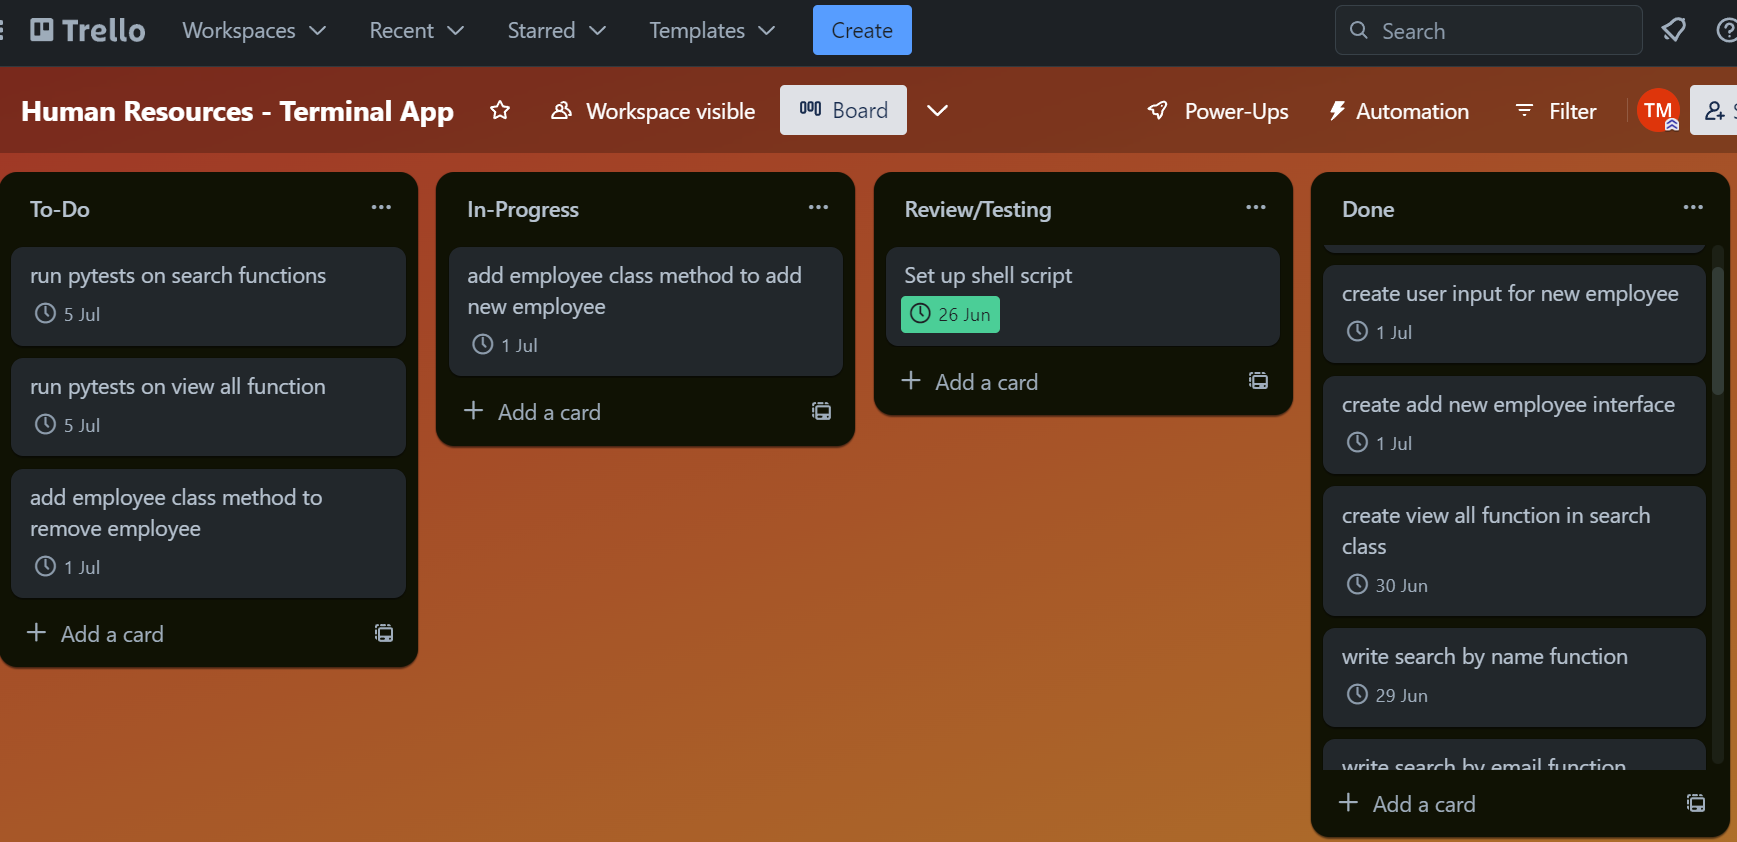
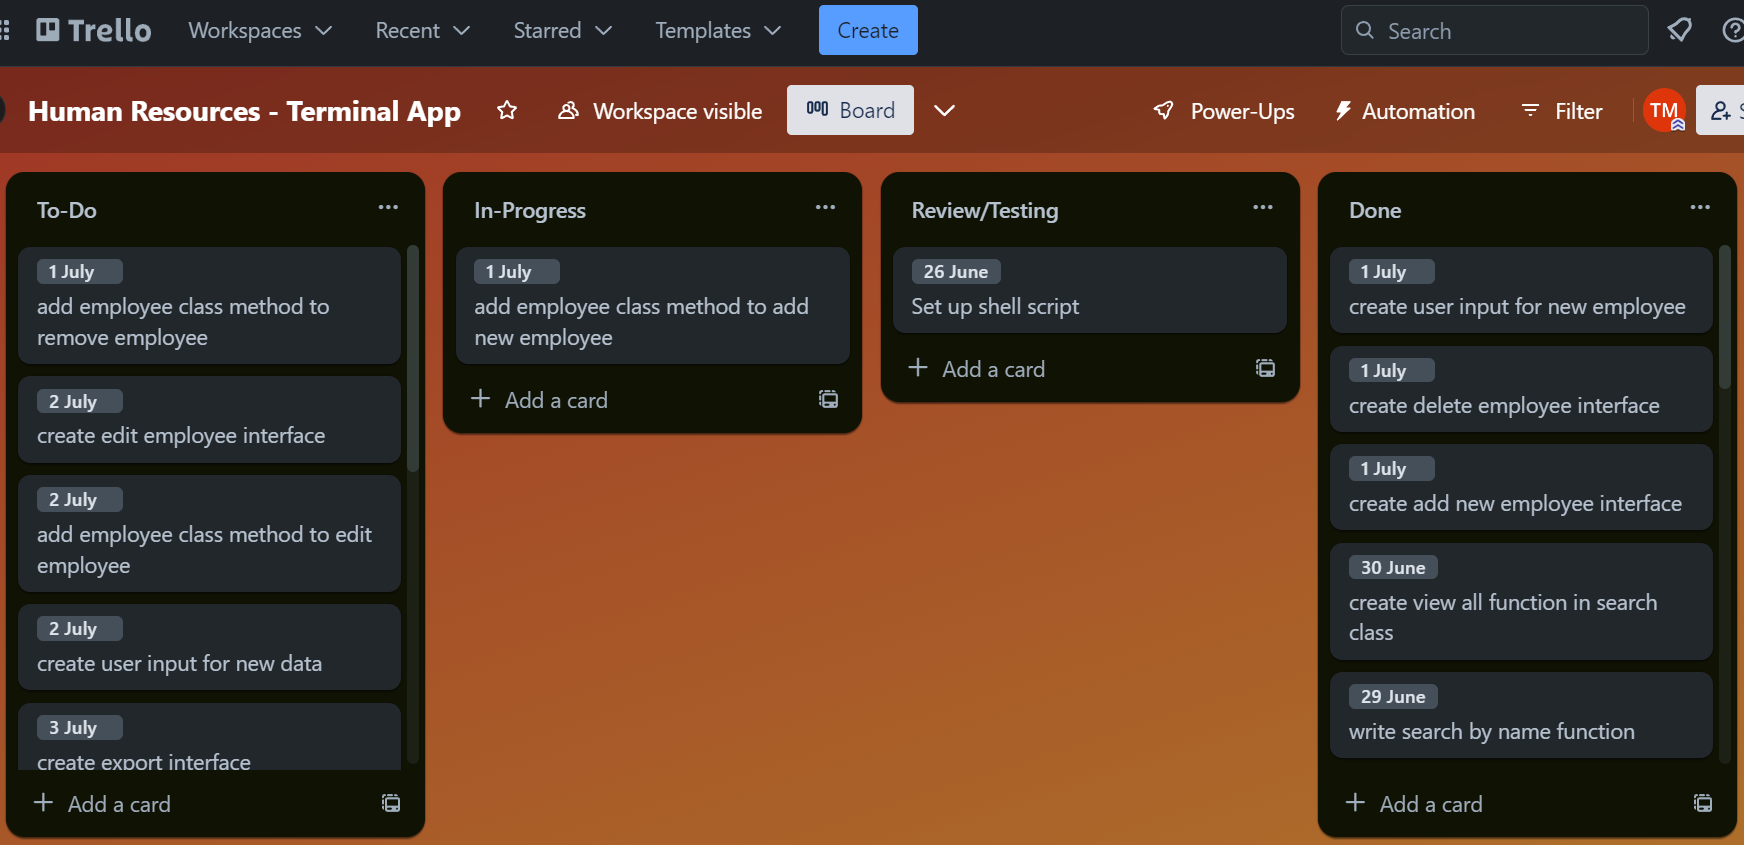
updated readme, updated trello board

diff --git a/README.md b/README.md
@@ -270,6 +270,8 @@ To edit an existing employee, the user first must search for the employee, then 
 |create user input for new data| 02/07/23     |  ✅  | 
 |add employee class method to edit employee|  02/07/23      |  ✅  | 
 
+![Trello Board](docs/edit_employee.png)
+
 <br>
 
 ### Export employees to csv
